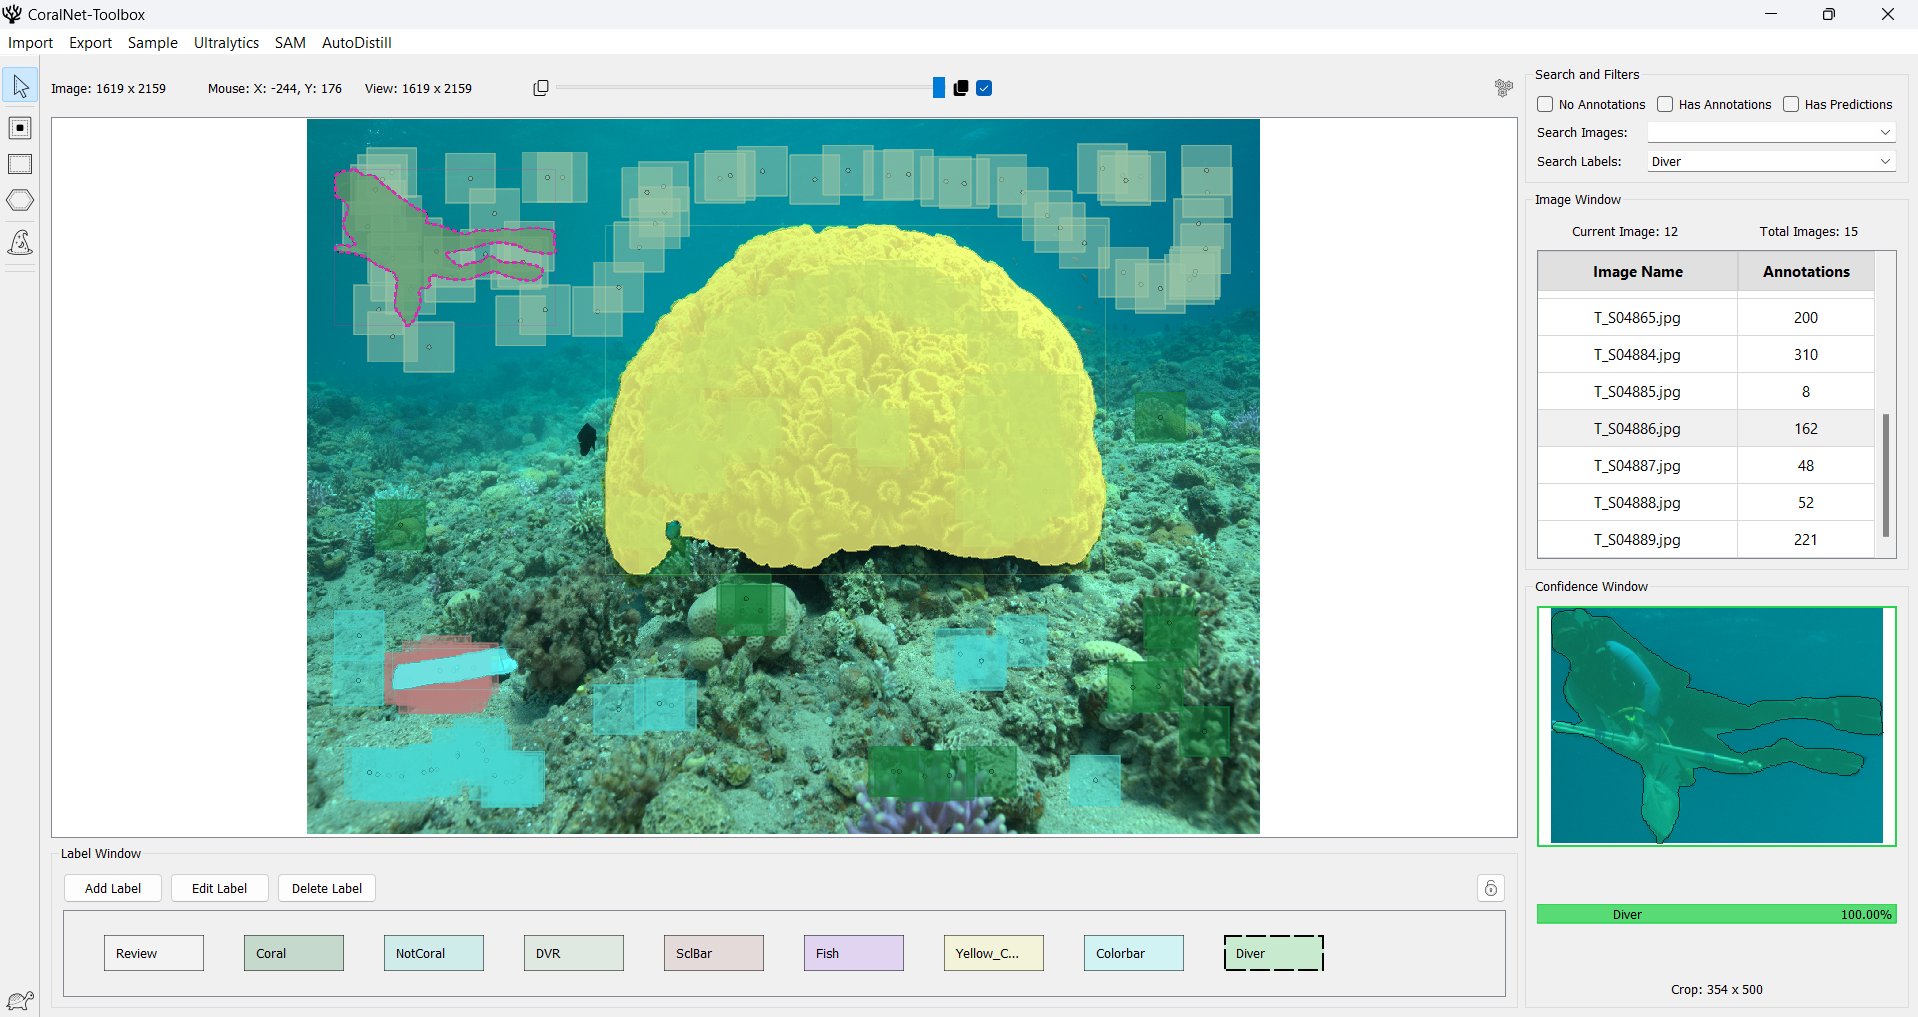
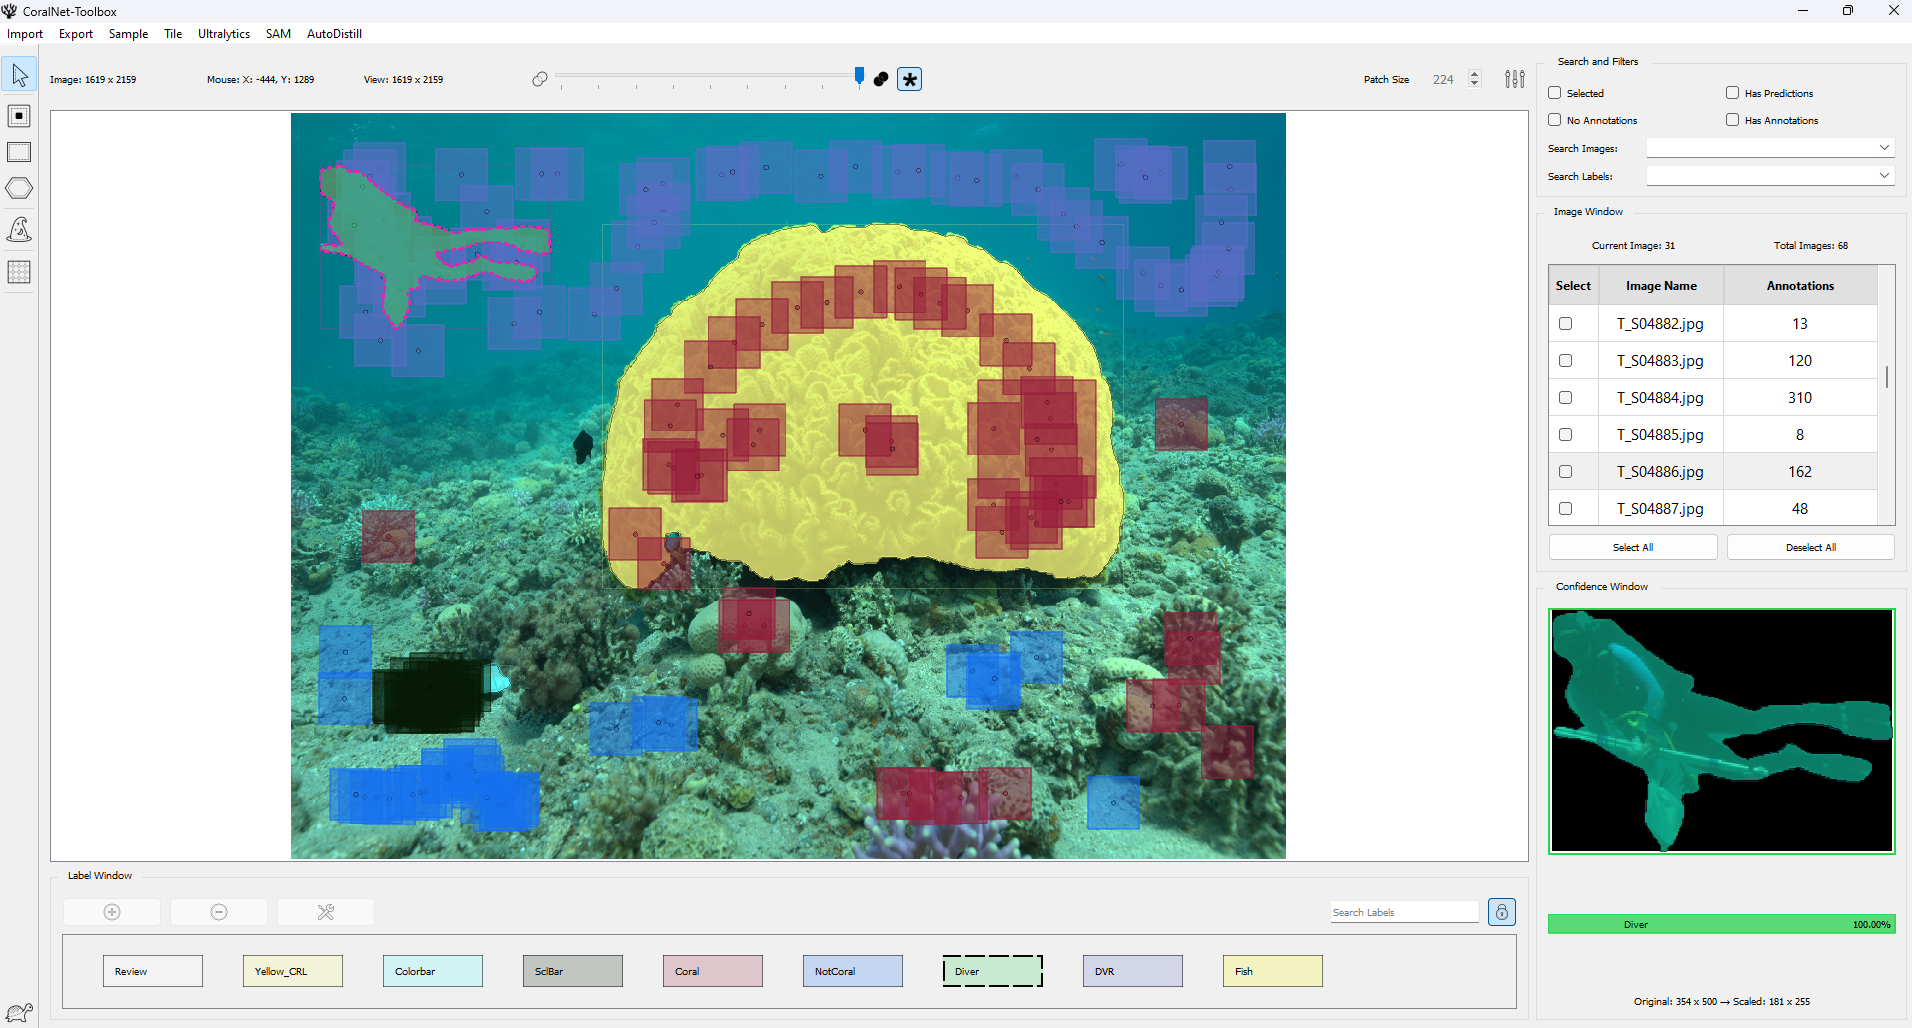
v0.0.26

diff --git a/coralnet_toolbox/QtLabelWindow.py b/coralnet_toolbox/QtLabelWindow.py
@@ -202,6 +202,13 @@ class LabelWindow(QWidget):
         self.top_bar.addWidget(self.edit_label_button)
 
         self.top_bar.addStretch()  # Add stretch to the right side
+        
+        # Search bar for labels
+        self.search_bar = QLineEdit()
+        self.search_bar.setPlaceholderText("Search Labels")
+        self.search_bar.textChanged.connect(self.filter_labels)
+        self.search_bar.setFixedWidth(150)
+        self.top_bar.addWidget(self.search_bar)
 
         # Lock button
         self.label_lock_button = QPushButton()
@@ -287,7 +294,9 @@ class LabelWindow(QWidget):
         if dialog.exec_() == QDialog.Accepted:
             short_label_code, long_label_code, color = dialog.get_label_details()
             if self.label_exists(short_label_code, long_label_code):
-                QMessageBox.warning(self, "Label Exists", "A label with the same short and long name already exists.")
+                QMessageBox.warning(self, 
+                                    "Label Exists",
+                                    "A label with the same short and long name already exists.")
             else:
                 new_label = self.add_label(short_label_code, long_label_code, color)
                 self.set_active_label(new_label)
@@ -506,13 +515,24 @@ class LabelWindow(QWidget):
         if not self.active_label or self.label_locked:
             return
 
-        try:
-            current_index = self.labels.index(self.active_label)
-        except ValueError:
-            # If the active label is not in the list, set it to None
-            self.active_label = None
+        # Get all labels from grid
+        grid_labels = []
+        for i in range(self.grid_layout.count()):
+            item = self.grid_layout.itemAt(i)
+            if item and item.widget():
+                grid_labels.append(item.widget())
+
+        if not grid_labels:
             return
 
+        try:
+            current_index = grid_labels.index(self.active_label)
+        except ValueError:
+            # If active label not in grid, select first label
+            if grid_labels:
+                self.set_active_label(grid_labels[0])
+            return
+        
         if key == Qt.Key_W:
             new_index = current_index - self.labels_per_row
         elif key == Qt.Key_S:
@@ -524,8 +544,8 @@ class LabelWindow(QWidget):
         else:
             return
 
-        if 0 <= new_index < len(self.labels):
-            self.set_active_label(self.labels[new_index])
+        if 0 <= new_index < len(grid_labels):
+            self.set_active_label(grid_labels[new_index])
 
     def toggle_label_lock(self, checked):
         """Toggle between lock and unlock states"""
@@ -559,6 +579,45 @@ class LabelWindow(QWidget):
     def unlock_label_lock(self):
         # Triggers the signal to toggle_label_lock method
         self.label_lock_button.setChecked(False)
+        
+    def filter_labels(self, search_text):
+        """Filter labels based on the search text and rebuild the grid with matching labels"""
+        # Unselect the selected annotation
+        self.annotation_window.unselect_annotations()
+        # Unselect the active label
+        self.deselect_active_label()
+        
+        # Get the search text in lowercase
+        search_text = search_text.lower()
+        
+        # Clear all widgets from the grid layout
+        while self.grid_layout.count():
+            item = self.grid_layout.takeAt(0)
+            if item.widget():
+                item.widget().setParent(None)
+        
+        # Filter labels that match the search criteria
+        filtered_labels = [
+            label for label in self.labels 
+            if search_text in label.short_label_code.lower() 
+            or search_text in label.long_label_code.lower()
+        ]
+        
+        # Add matching labels to the grid
+        for i, label in enumerate(filtered_labels):
+            row = i // self.labels_per_row
+            col = i % self.labels_per_row
+            self.grid_layout.addWidget(label, row, col)
+            label.show()
+        
+        # If we have an active label that's no longer visible, select first visible label
+        if self.active_label and self.active_label not in filtered_labels:
+            if filtered_labels:
+                self.set_active_label(filtered_labels[0])
+            else:
+                self.active_label = None
+                self.delete_label_button.setEnabled(False)
+                self.edit_label_button.setEnabled(False)
 
 
 class AddLabelDialog(QDialog):

diff --git a/coralnet_toolbox/IO/QtExportTagLabAnnotations.py b/coralnet_toolbox/IO/QtExportTagLabAnnotations.py
@@ -69,9 +69,8 @@ class ExportTagLabAnnotations:
                 taglab_data = {
                     "filename": file_path,
                     "working_area": None,
-                    "dictionary_name": "scripps",
-                    "dictionary_description": "These color codes are the ones typically used by the "
-                                              "Scripps Institution of Oceanography (UCSD)",
+                    "dictionary_name": "custom_dictionary",
+                    "dictionary_description": "These annotations were exported from CoralNet-Toolbox.",
                     "labels": {},
                     "images": []
                 }
@@ -127,18 +126,20 @@ class ExportTagLabAnnotations:
                     if isinstance(annotation, PolygonAnnotation):
                         # Calculate bounding box, centroid, area, perimeter, and contour
                         points = annotation.points
-                        min_x = min(point.x() for point in points)
-                        min_y = min(point.y() for point in points)
-                        max_x = max(point.x() for point in points)
-                        max_y = max(point.y() for point in points)
-                        centroid_x = sum(point.x() for point in points) / len(points)
-                        centroid_y = sum(point.y() for point in points) / len(points)
-                        area = annotation.calculate_area()
-                        perimeter = annotation.calculate_perimeter()
+                        min_x = int(min(point.x() for point in points))
+                        min_y = int(min(point.y() for point in points))
+                        max_x = int(max(point.x() for point in points))
+                        max_y = int(max(point.y() for point in points))
+                        width = max_x - min_x
+                        height = max_y - min_y
+                        centroid_x = float(f"{sum(point.x() for point in points) / len(points):.1f}")
+                        centroid_y = float(f"{sum(point.y() for point in points) / len(points):.1f}")
+                        area = float(f"{annotation.calculate_area():.1f}")
+                        perimeter = float(f"{annotation.calculate_perimeter():.1f}")
                         contour = self.taglabToPoints(np.array([[point.x(), point.y()] for point in points]))
 
                         annotation_dict = {
-                            "bbox": [min_x, min_y, max_x, max_y],
+                            "bbox": [min_y, min_x, width, height],
                             "centroid": [centroid_x, centroid_y],
                             "area": area,
                             "perimeter": perimeter,

diff --git a/coralnet_toolbox/Annotations/QtPolygonAnnotation.py b/coralnet_toolbox/Annotations/QtPolygonAnnotation.py
@@ -1,5 +1,6 @@
 import warnings
 
+import cv2
 import math
 import numpy as np
 
@@ -202,6 +203,15 @@ class PolygonAnnotation(Annotation):
 
         # Read the data from rasterio
         data = rasterio_src.read(window=window)
+        
+        # Create mask from polygon
+        polygon_points = np.array([(p.x() - min_x, p.y() - min_y) for p in self.points])
+        mask = np.zeros((window.height, window.width), dtype=np.uint8)
+        cv2.fillPoly(mask, [polygon_points.astype(np.int32)], 1)
+    
+        # Apply mask to each channel
+        for i in range(data.shape[0]):
+            data[i] = data[i] * mask
 
         # Ensure the data is in the correct format for QImage
         data = self._prepare_data_for_qimage(data)
